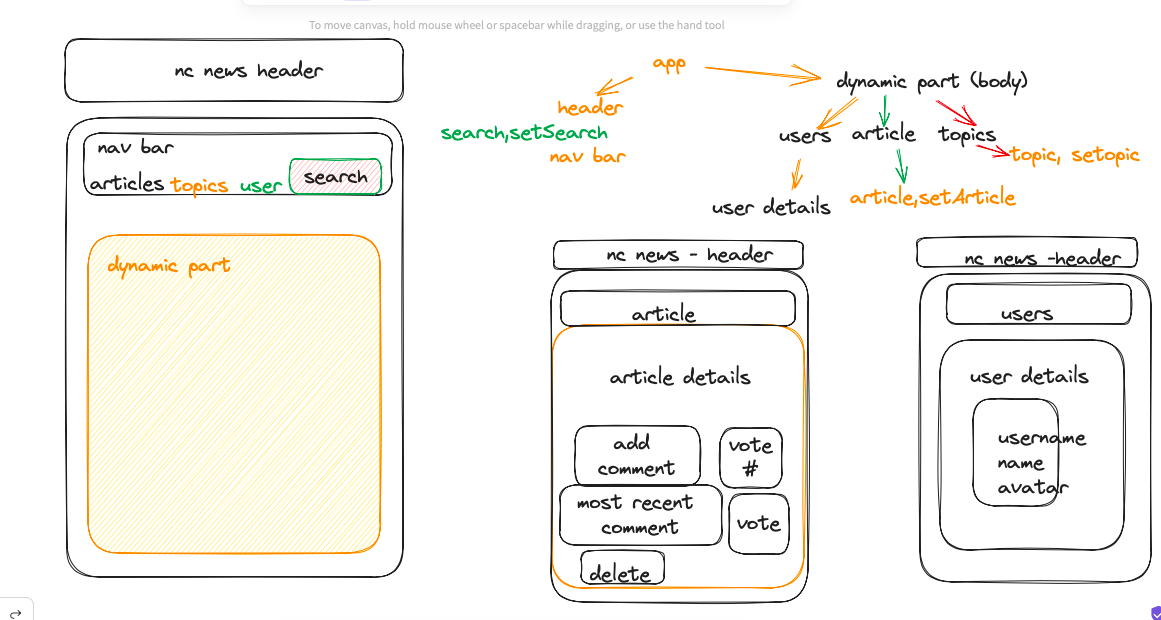
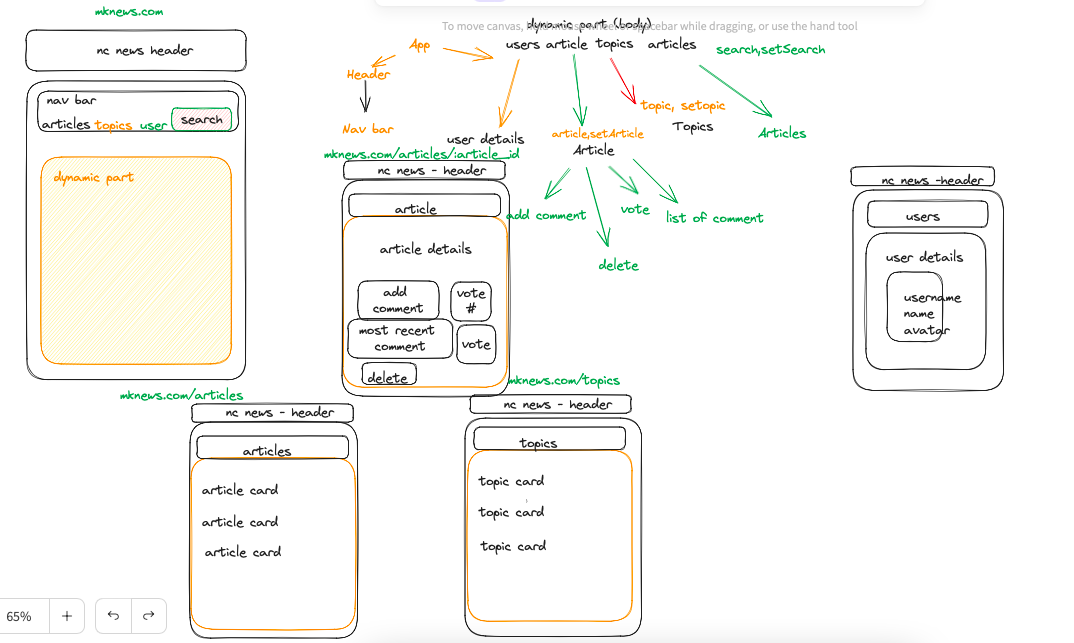
final img

diff --git a/src/components/Articles.jsx b/src/components/Articles.jsx
@@ -1,0 +1,21 @@
+import React, { useEffect,useState,useContext } from "react"
+import axios from 'axios'
+
+const Articles = () => {
+    const[articles, setArticles] = useState([])
+}
+
+useEffect(() => {
+    axios.get("")
+    .then(({res})=> {
+       return res.json();
+    })
+    .then((data) => {
+        setArticles(data.articles)
+    })
+})
+
+
+    return (
+        <div className="body">
+                    </div> )
